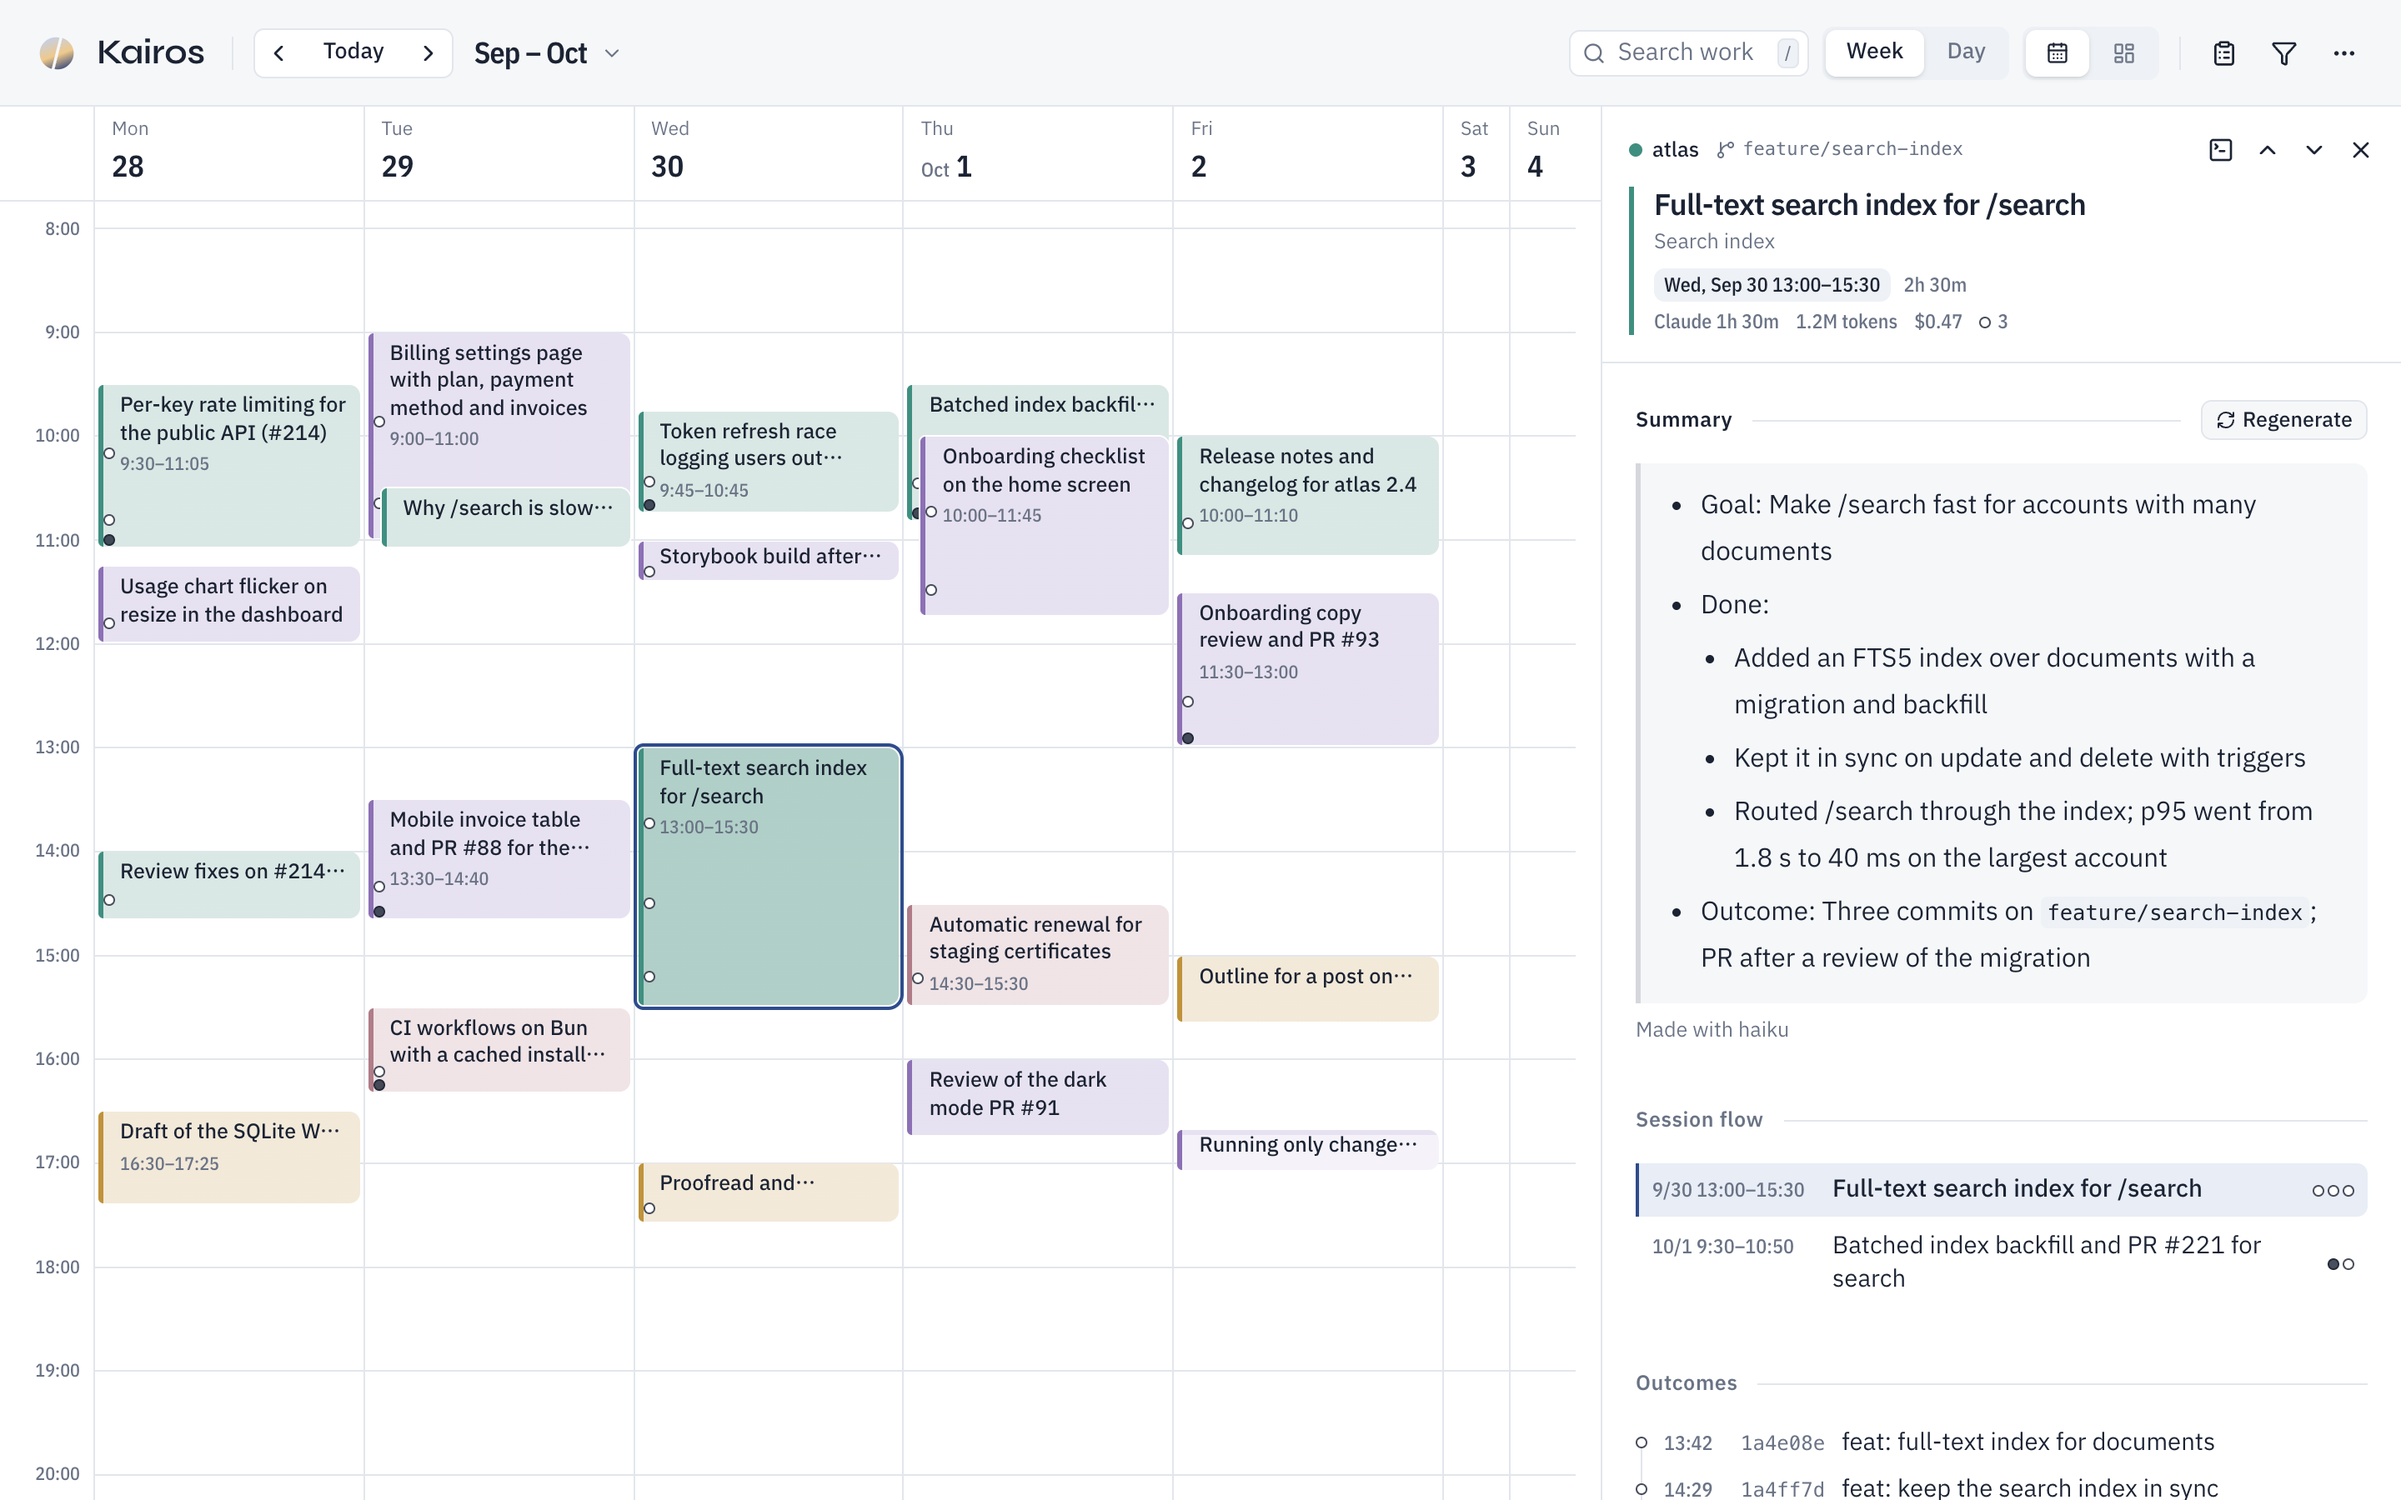
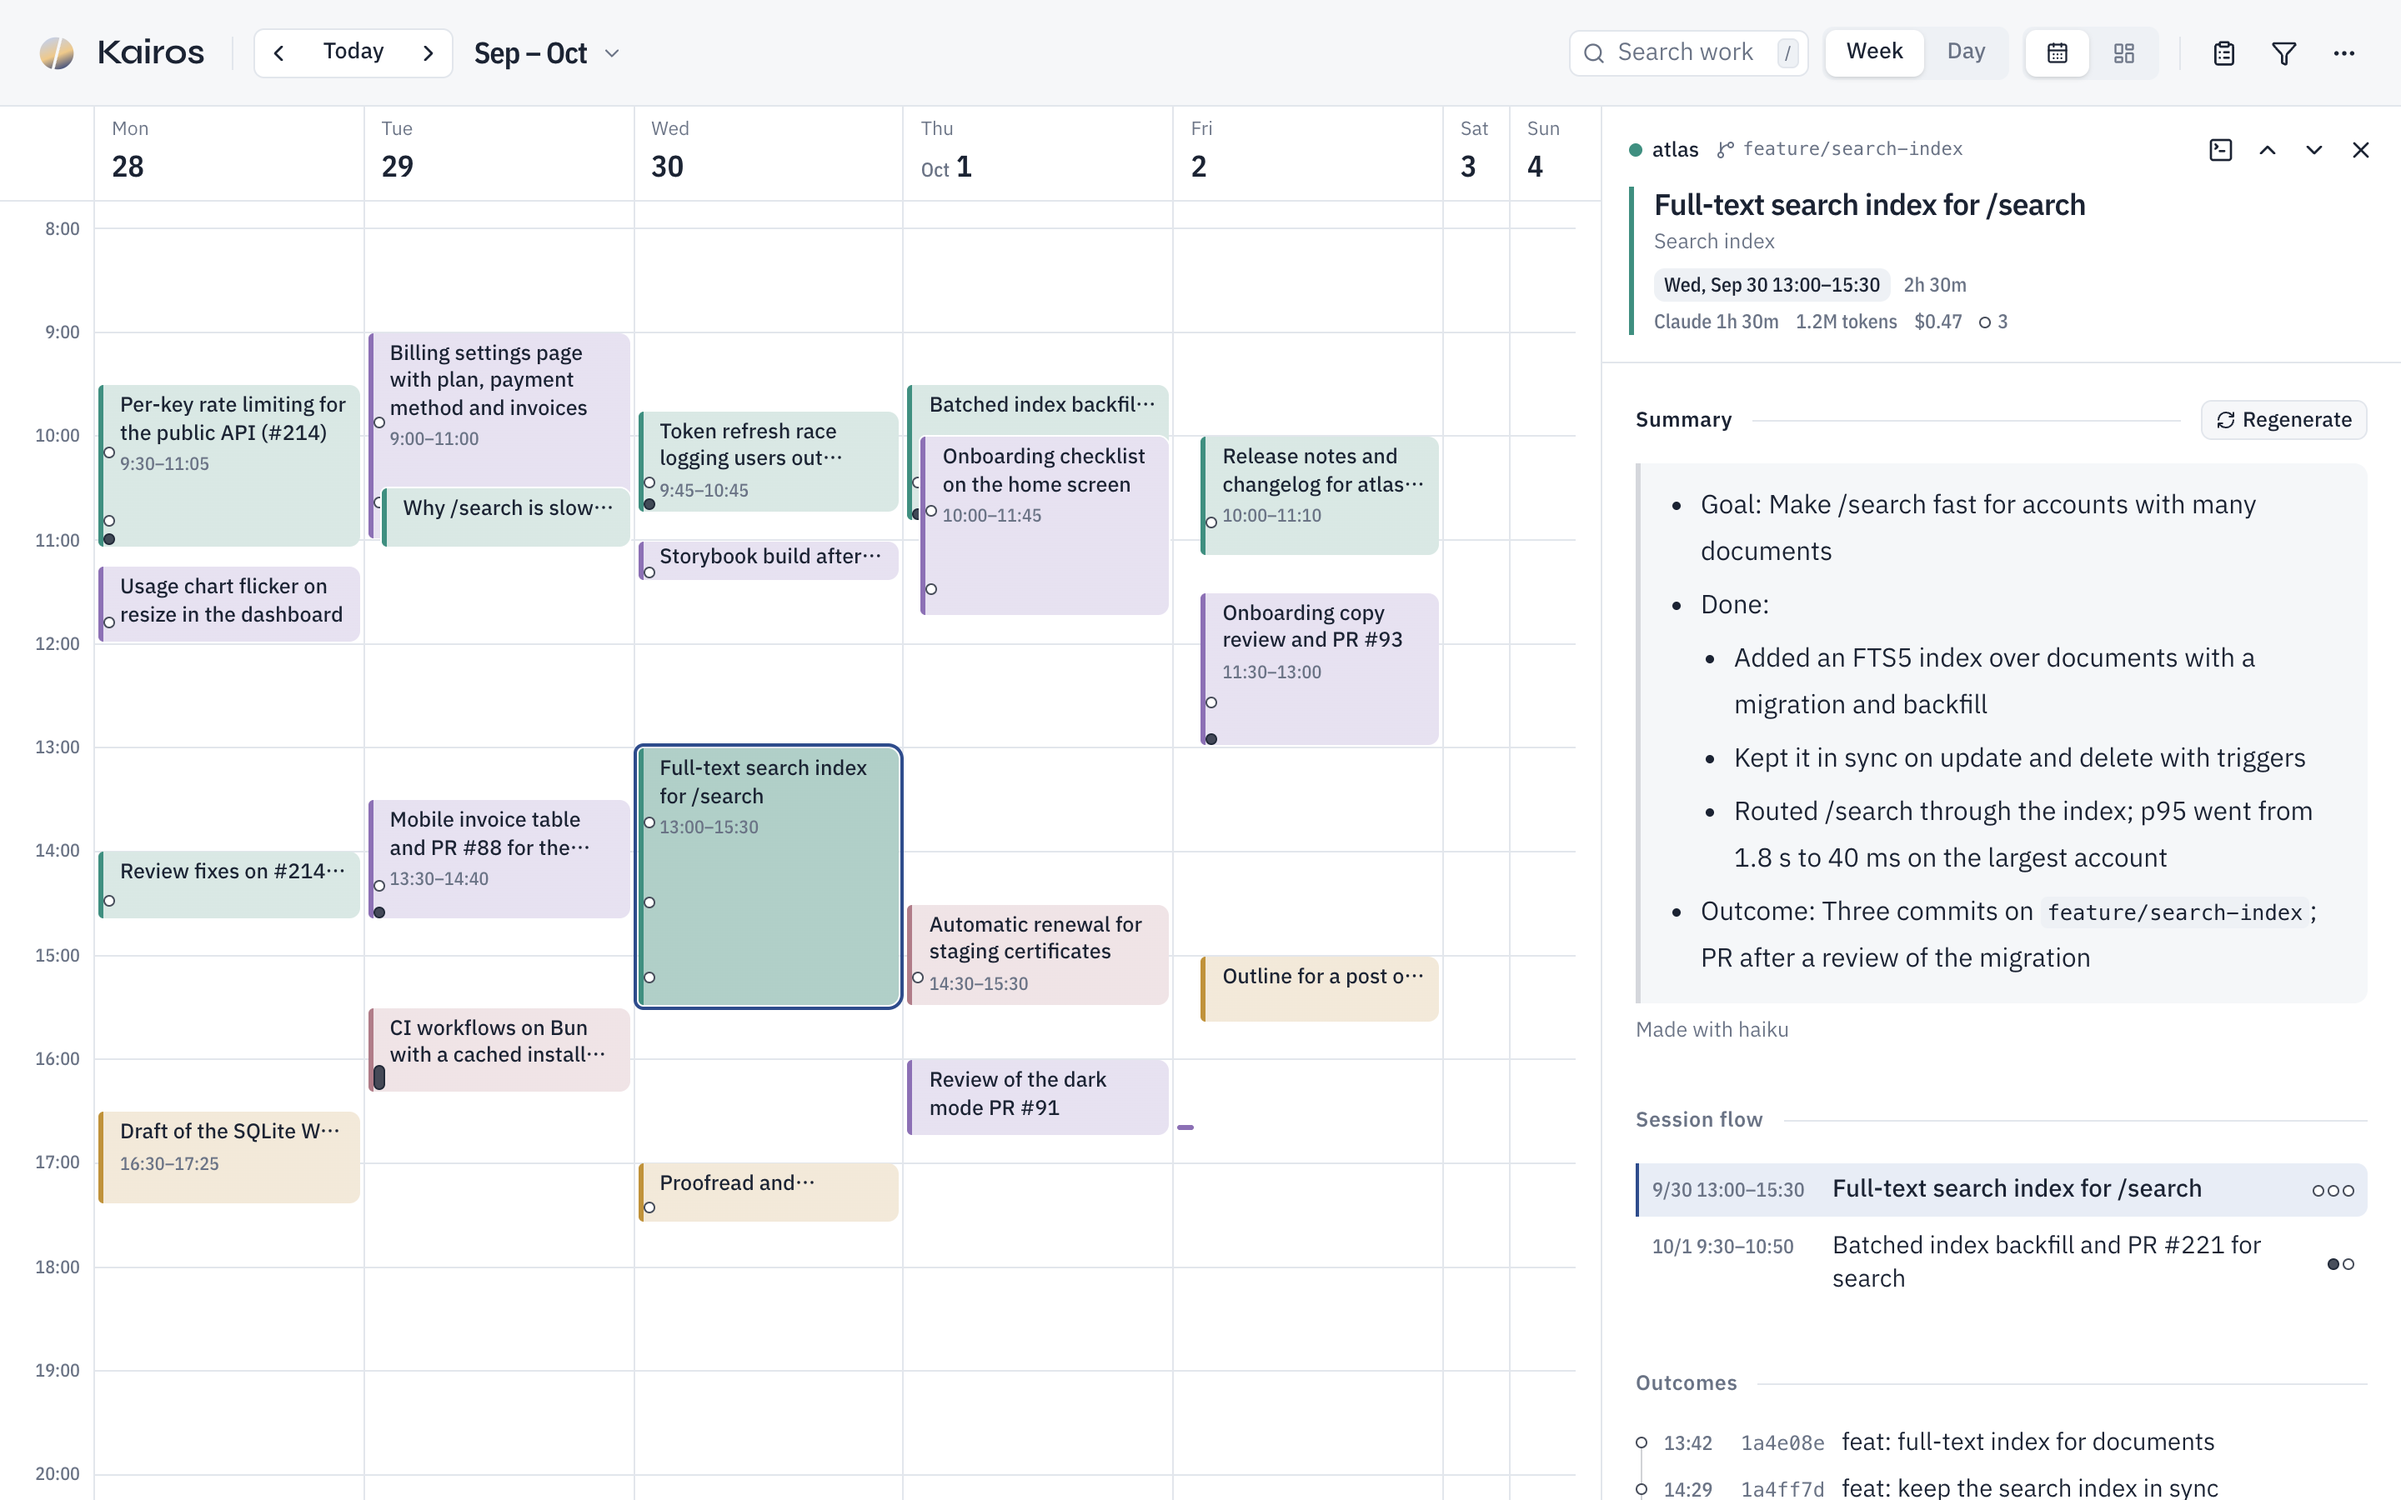
docs: describe short-work marks in DESIGN.md and retake screenshots

diff --git a/DESIGN.md b/DESIGN.md
@@ -228,6 +228,14 @@ A work block's fill is the project color mixed into `block-base` in `oklch`:
 - Spacing follows Tailwind's 4px scale; most gaps are 2–8px
 - **Calendar:** CSS Grid with a 56px hour column. An hour is never shorter than 48px, or headings
   of short blocks become unreadable. On open, the hour height is chosen so 8:00–20:00 fits the screen
+- **Short work is a mark, not a card.** Work under ten minutes (`MARK_MAX_MS`) is a short bar in
+  its project color (3px tall, 10px wide) in a 14px strip on the left of the day column, at the
+  time it happened; marks closer than 6px are pushed just below each other. They take no column, so
+  quick questions no longer push longer work into narrow side-by-side lanes (on real logs, blocks
+  sitting three or more abreast went from 88 of 257 to 7). Hovering shows the card's tooltip,
+  clicking opens the drawer, and selection gets the `primary` outline. Judged by the real length
+  (a block crossing midnight is whole); the work in progress stays a card. The strip appears only
+  on days that have marks
 - **A block's height is its real length.** Blocks shorter than the minimum height (room for one
   heading) fill only their real length at full strength; the rest is a label area with a faint fill
   (40% of the block fill) and a faint left edge, so the card keeps its shape instead of looking cut off
